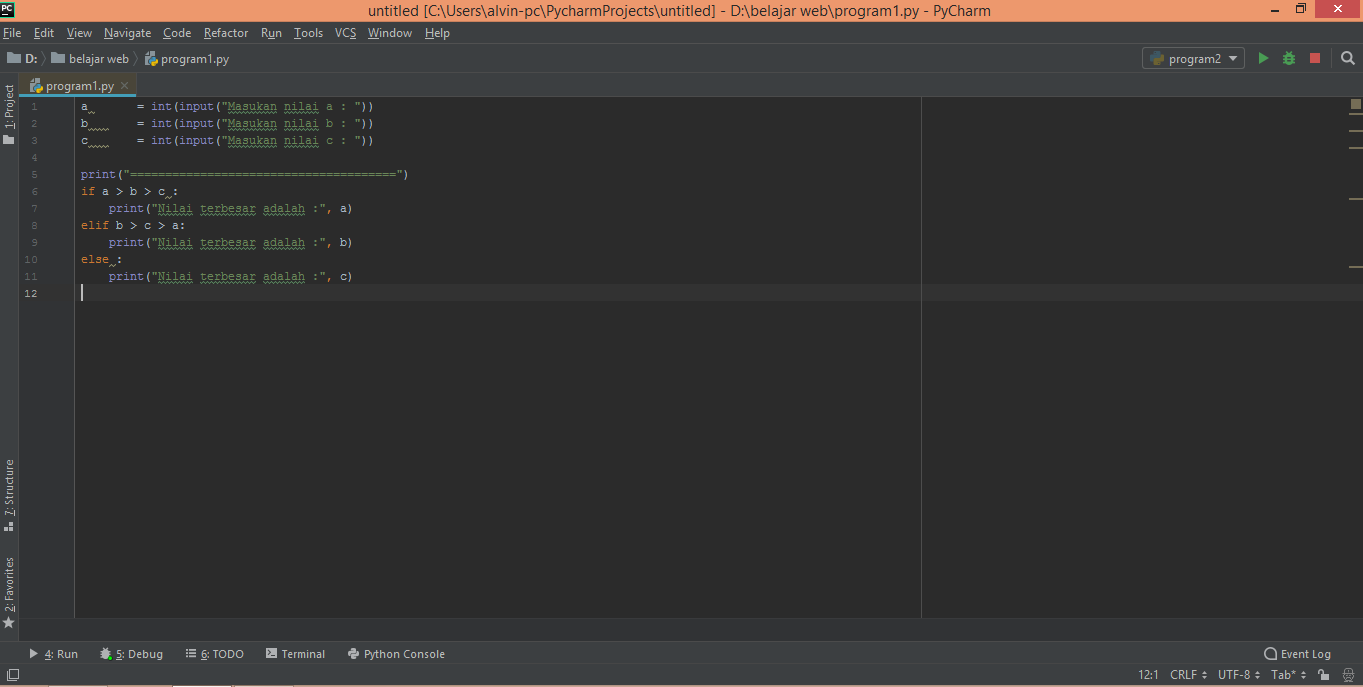
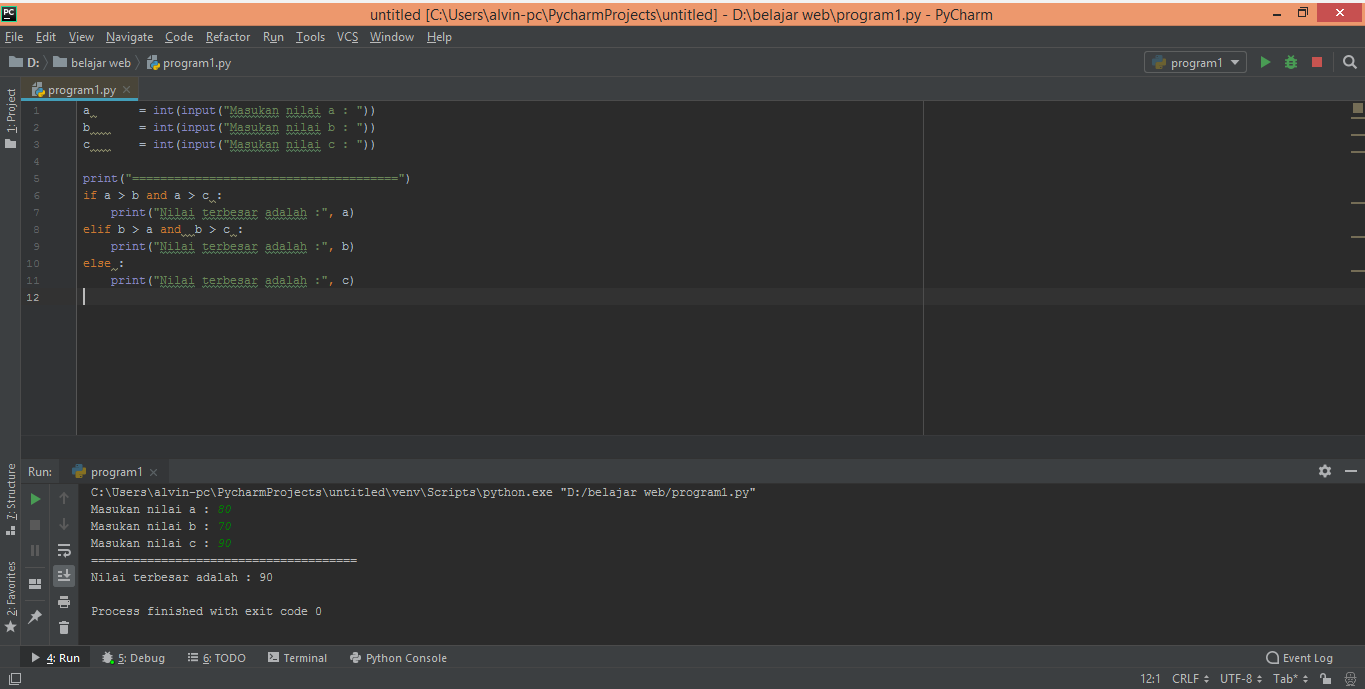
Tugas Pertama Saya

diff --git a/README.md b/README.md
@@ -1,8 +1,6 @@
-# PROGRAM 1
+# Macam - Macam Kondisional di Python
  #
-## Macam - Macam Kondisional di Python ##
-
-![alt text](a.png)
+## Menentukan Bilangan Terbesar ##
 
 - Ada tiga macam kondisional di Python, yang dapat Anda gunakan untuk membangun alur logika untuk program Anda. 
 Python memiliki statement if, if..else, dan if..elif..else. 
@@ -10,13 +8,16 @@ Berikut ini adalah contoh penggunaan if di Python:
 
 	![alt text](b.png)
 
+- Bila kondisi yang akan didefinisikan cukup banyak, Anda dapat menambah kondisi lain dengan menggunakan elif di bawah statement if dan sebelum statement else:
+
+	![alt text](d.png)
+
 - Untuk memeriksa kondisi yang tidak memenuhi kondisi utama. 
 Maka else digunakan untk menangani semua kondisi selain kondisi yang telah dituliskan. 
 Berikut adalah contoh penggunaan else di dalam kondisional Python:
 
 	![alt text](c.png)
 
-- Bila kondisi yang akan didefinisikan cukup banyak, Anda dapat menambah kondisi lain dengan menggunakan elif di bawah statement if dan sebelum statement else:
+## Hasil Eksekusi ##
 
-	![alt text](d.png)
-
+![alt text](a.png)
